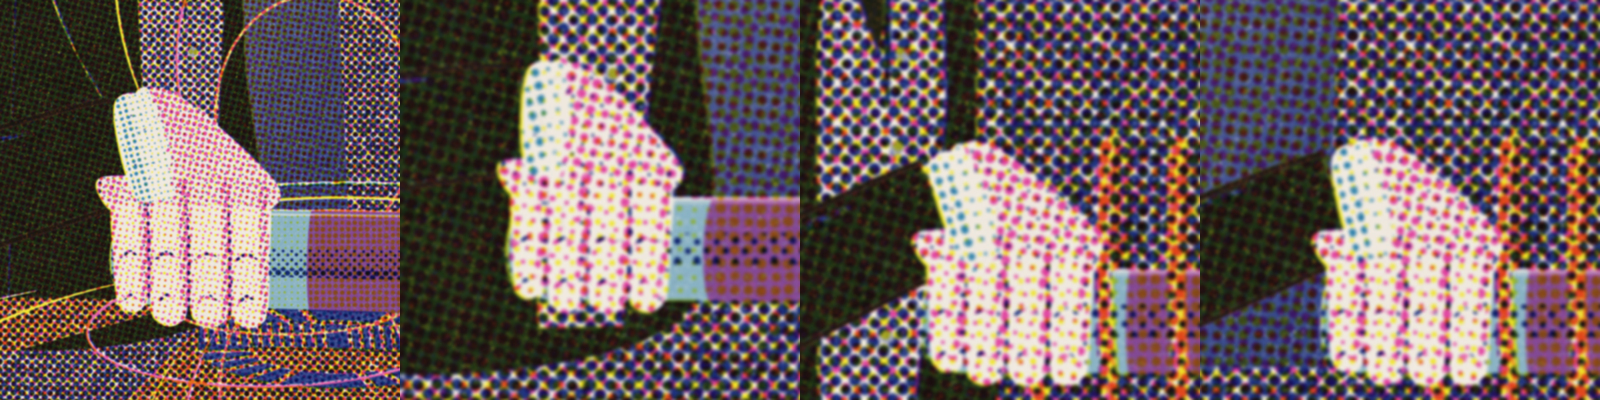
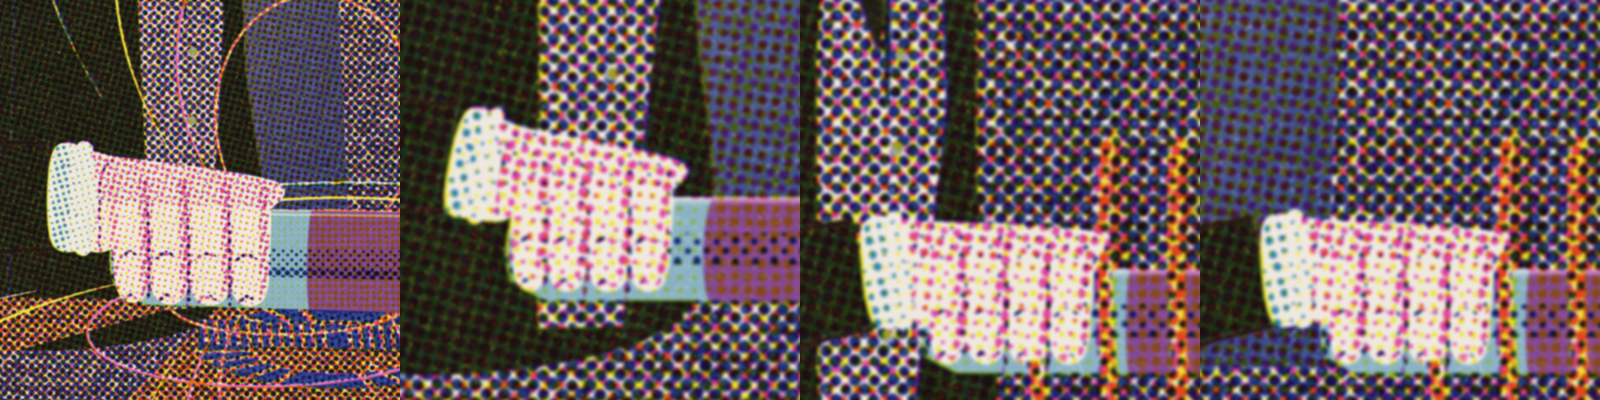
physics-history: Faraday's hand continues his forearm (no bend at the wrist); the fingers end at the magnet's lower edge
Claude-Session: https://claude.ai/code/session_01FbC8jfwG91neyKwZD6gkGH

diff --git a/sandbox/2026-09-25-physics-history/segments/faraday-coil.js b/sandbox/2026-09-25-physics-history/segments/faraday-coil.js
@@ -248,18 +248,21 @@ var Seg = globalThis.Seg ?? (globalThis.Seg = {});
         const o = C.proj([s, AX, r]), a = C.proj([s + 1, AX, r]), b = C.proj([s, AX - 1, r]);
         const J = [a[0] - o[0], a[1] - o[1], b[0] - o[0], b[1] - o[1]];
         const F = { apply: (q) => [o[0] + J[0] * q[0] + J[2] * q[1], o[1] + J[1] * q[0] + J[3] * q[1]] };
-        const Wl = GalHands.wristPt('fistAbove', r), W = F.apply(Wl);
+        // IK to the knuckles, the hand as the forearm's straight continuation: the wrist on the
+        // line from the knuckles to the elbow (no bend at the wrist)
         const k = Math.hypot(J[0], J[1]);
-        const [el] = Fig.ik(sh, W, 240 * k, 215 * k, [sh[0] + 20 * k, sh[1] + 400 * k]);
+        const Kl = [0, -(r + 4)], K = F.apply(Kl);
+        const [el] = Fig.ik(sh, K, 240 * k, 243 * k, [sh[0] + 20 * k, sh[1] + 400 * k]);
         const inv = (w) => { const det = J[0] * J[3] - J[1] * J[2], x = w[0] - o[0], y = w[1] - o[1]; return [(J[3] * x - J[2] * y) / det, (-J[1] * x + J[0] * y) / det]; };
-        const v = inv([W[0] + (el[0] - W[0]) * 0.01, W[1] + (el[1] - W[1]) * 0.01]), l = Math.hypot(v[0] - Wl[0], v[1] - Wl[1]) || 1, fa = [(v[0] - Wl[0]) / l, (v[1] - Wl[1]) / l];
+        const ve = inv(el), l = Math.hypot(ve[0] - Kl[0], ve[1] - Kl[1]) || 1, fa = [(ve[0] - Kl[0]) / l, (ve[1] - Kl[1]) / l];
+        const Wl = [Kl[0] + fa[0] * 28, Kl[1] + fa[1] * 28];
         const cu = F.apply([Wl[0] + fa[0] * 27, Wl[1] + fa[1] * 27]);
         const w = (u) => L(64, 44, u) * k * 0.9;
         line(press, [sh, el, cu], (u) => w(u) + 4 * k, { navy: 1, yellow: 1, pink: 0.8 });
         line(press, [sh, el, cu], w, COATC);
         line(press, [[L(sh[0], el[0], 0.2), L(sh[1], el[1], 0.2) - 18 * k], [el[0], el[1] - 16 * k], [L(el[0], cu[0], 0.8), L(el[1], cu[1], 0.8) - 14 * k]], taper(5 * k, 0.2, 0.3), COAT_LIT);
         press.save(); press.each((g) => g.transform(J[0], J[1], J[2], J[3], o[0], o[1]));
-        GalHands.fist(press, r, { fa, squeeze: 0, above: true });
+        GalHands.fist(press, r, { fa, squeeze: 0, above: true, align: true, short: true });
         press.restore();
     }
 

diff --git a/sandbox/2026-09-25-physics-history/hands-galileo.js b/sandbox/2026-09-25-physics-history/hands-galileo.js
@@ -177,10 +177,11 @@ const GalHands = (() => {
         if (o.above) { press.save(); press.each((g) => g.scale(1, -1)); fist(press, r, { ...o, above: false, fa: [(o.fa ?? [0, -1])[0], -(o.fa ?? [0, -1])[1]] }); press.restore(); return; }
         const fa = o.fa ?? [0, 1], sq = o.squeeze ?? 0;
         const F4 = [[23, 15.5], [7.5, 16.5], [-8.5, 15.5], [-23, 13.5]]; // index → little: [a, width]
-        const W = [0, r + 30], W1 = add(W, fa, 16), side = [fa[1], -fa[0]];
+        // o.align: the wrist lies on the forearm's line from the knuckles (no bend at the wrist)
+        const W = o.align ? add([0, r + 4], fa, 28) : [0, r + 30], W1 = add(W, fa, 16), side = [fa[1], -fa[0]];
         // each finger: from the knuckle just under the bottom edge, up the near face, over the top
         const finger = ([ac, w], i) => {
-            const bot = r + 11 - (i === 3 ? 3 : 0), top = -r - 3 - sq * 0.5 + (i === 3 ? 5 : 0);
+            const bot = r + 11 - (i === 3 ? 3 : 0), top = o.short ? -r + 6 : -r - 3 - sq * 0.5 + (i === 3 ? 5 : 0); // short: the tips go round the far edge, out of sight
             return [[ac - w / 2, bot], [ac - w / 2 - 0.4, 2], [ac - w * 0.46, top + 6], [ac - w * 0.3, top + 1.2], [ac, top - 0.6], [ac + w * 0.3, top + 1.2], [ac + w * 0.46, top + 6], [ac + w / 2 + 0.4, 2], [ac + w / 2, bot]];
         };
         const fingers = F4.map(finger);
